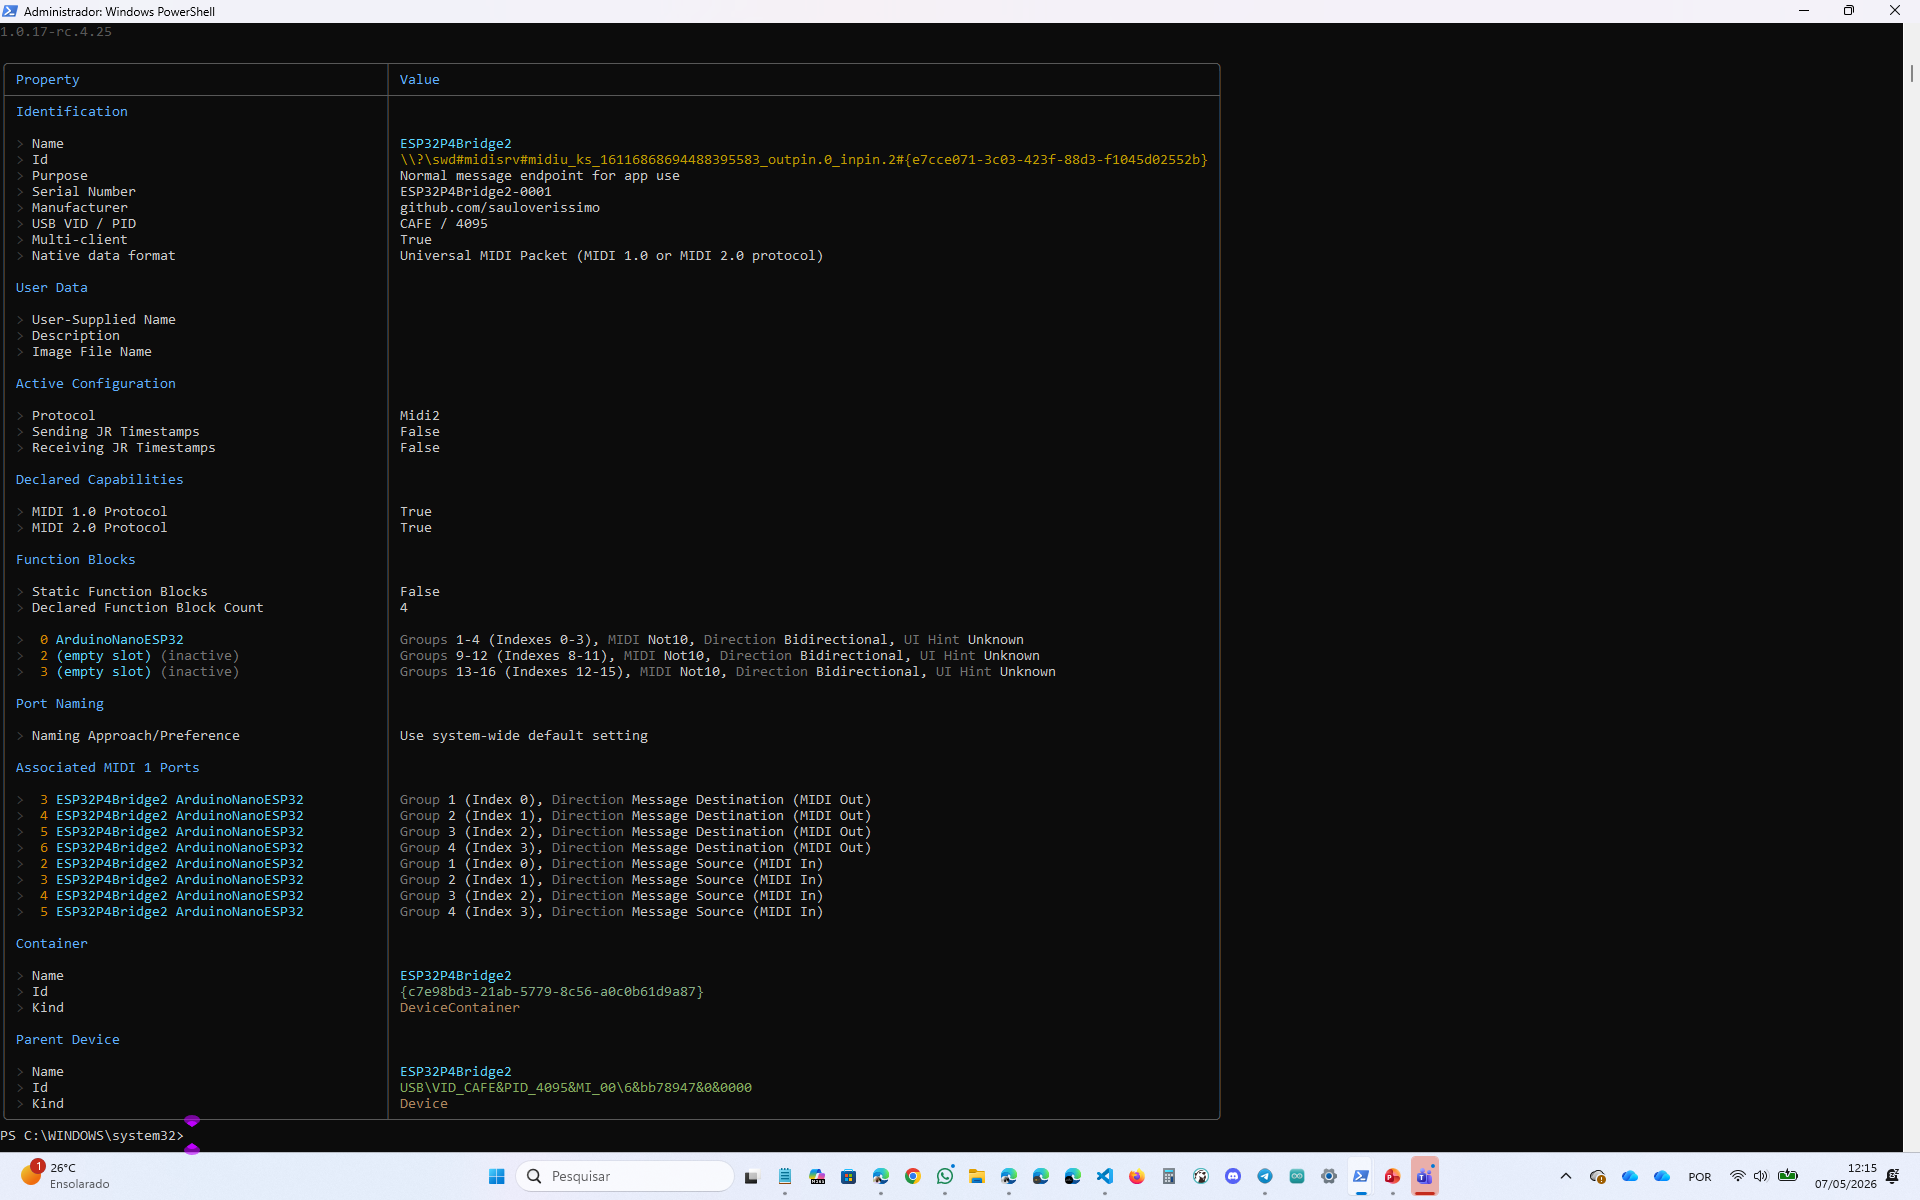
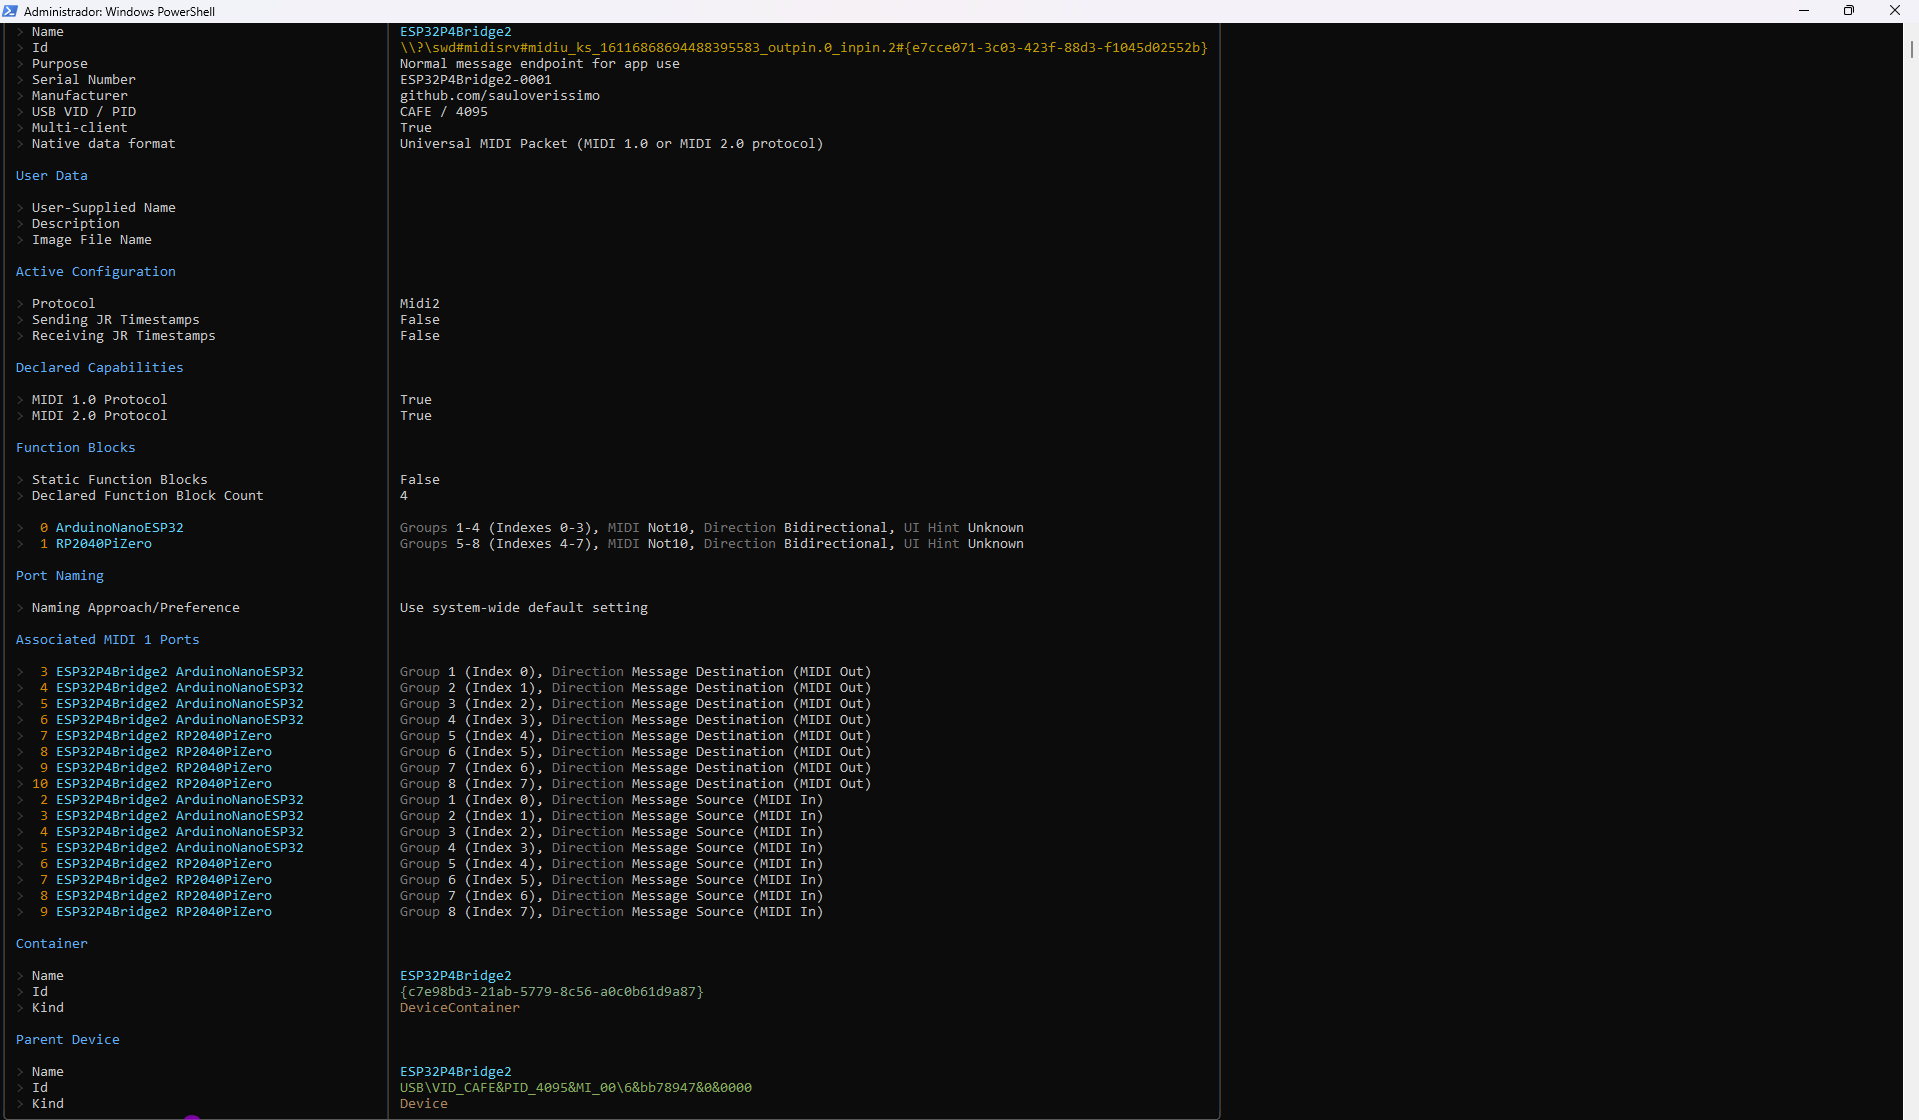
docs(examples): bridge2 README screenshots from hardware validation
Adds two image references to the bridge2 README pulled from the
hardware test that confirmed the m2bridge class works end to end:

- ## Hardware: board/hardware.png shows the Waveshare ESP32-P4
  dev-kit jacks and the CH334F hub that fan out to the upstream
  MIDI 2.0 devices.
- ## Validation: monitor/stack.png shows the bench setup with the
  bridge plus two upstream devices plugged into the USB-A jacks.

Also drops monitor/image.png (provisional capture replaced by the
final ones), refreshes monitor/properties.png with the post-fix
Microsoft MIDI Console reading (ESP32P4Bridge2 endpoint, 4 FBs
declared, two active blocks carrying the upstream Endpoint Names),
and adds monitor/monitor.png with a live UMP capture from the same
console.

diff --git a/examples/esp32-p4-devkit-bridge2-midi2/README.md b/examples/esp32-p4-devkit-bridge2-midi2/README.md
@@ -72,6 +72,7 @@ The CH343 USB-Serial-JTAG bridge on the **ToUART** USB-C jack binds to `/dev/tty
 To override TinyUSB with a local working copy: `ln -sfn /path/to/your/tinyusb idf/external/tinyusb && idf.py reconfigure`.
 
 ## Hardware
+![esp32-p4-devkit-bridge2-midi2 banner](board/hardware.png)
 
 | Connector / Pin | Use |
 |---|---|
@@ -84,6 +85,7 @@ To override TinyUSB with a local working copy: `ln -sfn /path/to/your/tinyusb id
 Identical to the v1 sibling. No board modification required.
 
 ## Validation
+![esp32-p4-devkit-bridge2-midi2 banner](monitor/stack.png)
 
 Plug the **USB-Device** USB-C into the host PC. Plug any USB MIDI 2.0 device into either USB-A jack. The PC should enumerate `cafe:4095 ESP32P4Bridge2` and expose a multi-FB MIDI 2.0 endpoint.
 